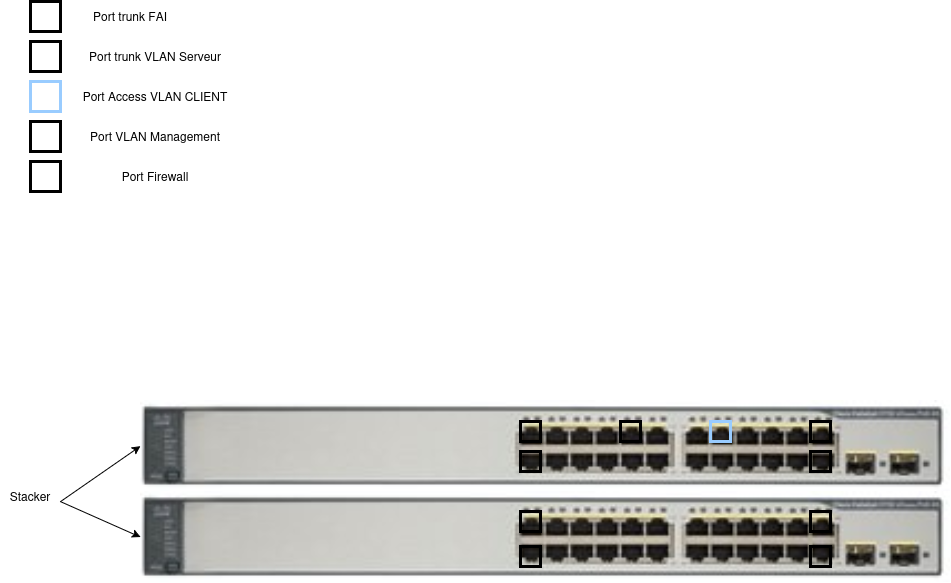
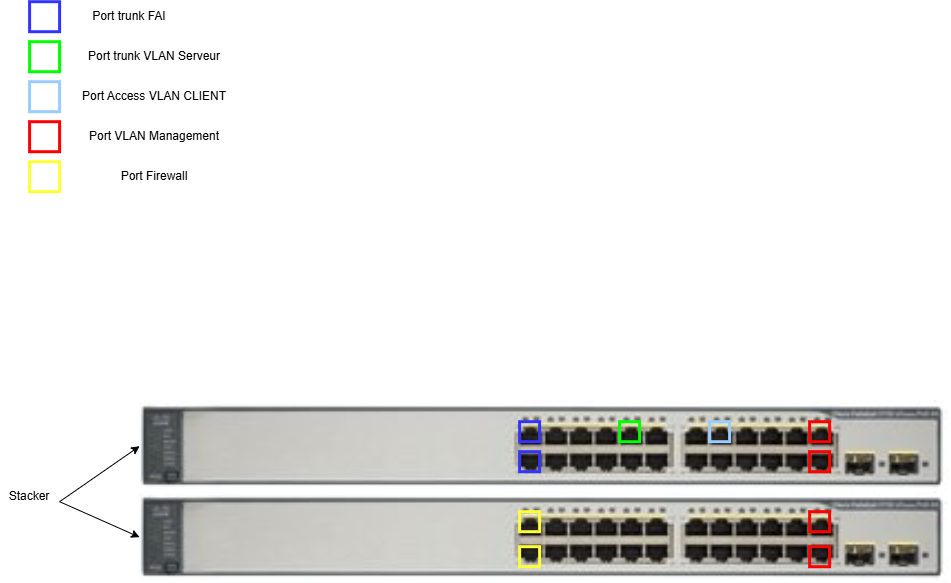
maj schéma matheo

diff --git a/docs/Présentation/matheo.md b/docs/Présentation/matheo.md
@@ -1,6 +1,6 @@
 # Schéma logique 
 
-![mon schema](../assets/schema-logique.png)
+![mon schema](../assets/schema-logiquem.png)
 
 # Schéma Physique 
 
